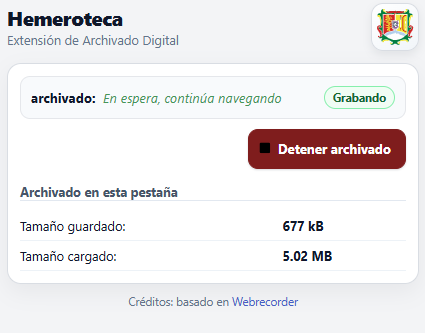
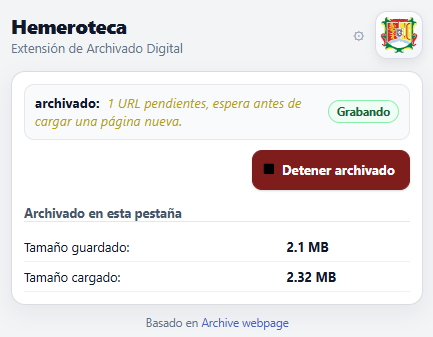
cambios al readme

diff --git a/src/popup.ts b/src/popup.ts
@@ -118,6 +118,8 @@ class RecPopup extends LitElement {
   }
 
   firstUpdated() {
+    console.log("Hecho por Hector Medrano :D");
+
     document.addEventListener("click", () => {
       // @ts-expect-error - TS2339 - Property 'collDrop' does not exist on type 'RecPopup'.
       if (this.collDrop === "show") {
@@ -336,6 +338,8 @@ class RecPopup extends LitElement {
         display: block;
         width: 100%;
         height: 100%;
+        border-radius: 16px;
+        overflow: hidden;
         font-size: initial !important;
         color: #0f172a;
         font-family: "Nunito Sans", "Segoe UI", sans-serif;
@@ -354,6 +358,7 @@ class RecPopup extends LitElement {
         background: #f3f4f6;
         padding: 14px;
         min-height: 100vh;
+        border-radius: inherit;
       }
 
       .container {

diff --git a/README.md b/README.md
@@ -2,109 +2,137 @@
   <img alt="LogoFis" src="src/assets/brand/fiscalia-icon-with-brand.png" width="50%">
 </div>
 
-## Extensión de Archivado Digital (Hemeroteca SIAI)
+# Extensión de Archivado Digital (Hemeroteca SIAI)
 
-Extensión para **Chrome/Chromium** orientada al módulo de hemeroteca del **SIAI (Sistema Integral de Análisis de Información)**. Permite **capturar**, **almacenar** y **reproducir** archivos web de alta fidelidad directamente desde el navegador, guardándolos en el almacenamiento del navegador (IndexedDB).
+[![Chrome/Chromium](https://img.shields.io/badge/Browser-Chrome%2FChromium-4285F4?logo=googlechrome&logoColor=white)](#)
+[![Node.js](https://img.shields.io/badge/Node.js-%3E%3D12-339933?logo=nodedotjs&logoColor=white)](#)
+[![Yarn Classic](https://img.shields.io/badge/Yarn-Classic%20v1-2C8EBB?logo=yarn&logoColor=white)](#)
 
-- **Base tecnológica**: deriva del proyecto **ArchiveWeb.page**.
-- **Guía funcional (referencia)**: [ArchiveWeb.page User Guide](https://archiveweb.page/guide).
+> Extensión para **Chrome/Chromium** orientada al módulo de hemeroteca del **SIAI (Sistema Integral de Análisis de Información)**.
+> Permite **capturar**, **almacenar** y **reproducir** archivos web de alta fidelidad directamente desde el navegador,
+> guardándolos en almacenamiento local del navegador (**IndexedDB**).
+
+---
+
+## Tabla de contenidos
+
+- [Información general](#información-general)
+- [Inicio rápido (desarrollo)](#inicio-rápido-desarrollo)
+- [Capturas de pantalla](#capturas-de-pantalla)
+- [Arquitectura](#arquitectura)
+- [Scripts disponibles](#scripts-disponibles)
+- [Resolución de problemas](#resolución-de-problemas)
+- [Créditos](#créditos)
+
+## Información general
+
+- **Base tecnológica:** deriva del proyecto **ArchiveWeb.page**.
+- **Guía funcional de referencia:** [ArchiveWeb.page User Guide](https://archiveweb.page/guide).
+
+---
 
 ## Inicio rápido (desarrollo)
 
 ### Requisitos previos
 
-- **Node.js**: >= 12 (recomendado: LTS reciente si tu entorno lo permite)
-- **Yarn Classic (v1)**
+- **Node.js:** >= 12 (recomendado: LTS reciente).
+- **Yarn Classic (v1)**.
 
 ### Instalación
 
 1. Clona este repositorio y entra al directorio:
 
-```sh
-git clone <URL_DE_ESTE_REPOSITORIO>
-cd webarchiver-extension-fisnay
-```
+   ```sh
+   git clone <URL_DE_ESTE_REPOSITORIO>
+   cd webarchiver-extension-fisnay
+   ```
 
 2. Instala dependencias:
 
-```sh
-yarn install
-```
+   ```sh
+   yarn install
+   ```
 
 3. Compila en modo desarrollo:
 
-```sh
-yarn build-dev
-```
+   ```sh
+   yarn build-dev
+   ```
 
 ### Cargar la extensión en Chromium
 
 1. Abre `chrome://extensions`.
 2. Activa **Modo desarrollador**.
-3. Selecciona **Cargar descomprimida** y elige la carpeta:
-   - `./dist/ext`
+3. Selecciona **Cargar descomprimida** y elige la carpeta `./dist/ext`.
 
-Para desarrollo iterativo (watch), puedes usar:
+Para desarrollo iterativo (watch):
 
 ```sh
 yarn start-ext
 ```
 
-## Capturas de Pantalla
+---
 
-### 1. Pantalla de Inicio
-<div align="center">
-  <img alt="Inicio de la extensión" src="static/screenshots/extension-home.png" width="70%">
-</div>
+## Capturas de pantalla
 
-### 2. Proceso de Archivado en Curso
-<div align="center">
-  <img alt="Archivado en curso" src="static/screenshots/extension-archiving.png" width="70%">
-</div>
+| 1) Pantalla de inicio | 2) Proceso de archivado en curso | 3) Finalización y guardado (Uploading) |
+| --- | --- | --- |
+| <img alt="Inicio de la extensión" src="static/screenshots/extension-home.png" width="100%"> | <img alt="Archivado en curso" src="static/screenshots/extension-archiving.png" width="100%"> | <img alt="Finalización y guardado" src="static/screenshots/extension-uploading.png" width="100%"> |
 
-### 3. Finalización y Guardado (Uploading)
-<div align="center">
-  <img alt="Finalización y guardado" src="static/screenshots/extension-uploading.png" width="70%">
-</div>
+---
 
 ## Arquitectura
 
-La extensión hace uso del protocolo de depuración de Chrome para capturar y guardar el tráfico de red, y extiende la interfaz de usuario de [ReplayWeb.page](https://github.com/webrecorder/replayweb.page) y el sistema de service worker [wabac.js](https://github.com/webrecorder/wabac.js) para la reproducción y el almacenamiento.
+La extensión hace uso del protocolo de depuración de Chrome para capturar y guardar tráfico de red, y extiende la interfaz de [ReplayWeb.page](https://github.com/webrecorder/replayweb.page) y el service worker [wabac.js](https://github.com/webrecorder/wabac.js) para reproducción y almacenamiento.
 
-## Scripts útiles
+---
 
-Estos comandos están definidos en `package.json`:
+## Scripts disponibles
 
-- **Build producción**:
+| Script | Descripción |
+| --- | --- |
+| `yarn build-dev` | Build de desarrollo. |
+| `yarn start-ext` | Compilación en modo watch para iteración rápida. |
+| `yarn build` | Build de producción. |
+| `yarn lint` | Lint del proyecto. |
+| `yarn format` | Formato automático. |
+| `yarn dist` | Empaquetado para distribución. |
+
+---
+
+## Resolución de problemas
+
+### No se reflejan cambios en la extensión
+
+- Si usas `yarn start-ext`, recarga la extensión en `chrome://extensions`.
+- Recarga la extensión en `chrome://extensions`.
+- Recarga la página objetivo que estás archivando.
+
+### Error al cargar la extensión
+
+- Asegúrate de cargar exactamente `./dist/ext` (no `./dist`).
+- Ejecuta `yarn build-dev` nuevamente.
+
+### Inconsistencias de dependencias
 
 ```sh
-yarn build
+rm -rf node_modules
+yarn install
 ```
 
-- **Lint**:
+En Windows (PowerShell):
 
-```sh
-yarn lint
+```powershell
+Remove-Item -Recurse -Force node_modules
+yarn install
 ```
 
-- **Formato**:
-
-```sh
-yarn format
-```
-
-- **Empaquetado (Electron / distribución)**:
-
-```sh
-yarn dist
-```
-
-## Notas y resolución de problemas
-
-- **No veo cambios al recompilar**: si estás usando `yarn start-ext` (watch), normalmente debes **recargar** la extensión en `chrome://extensions` (botón de recarga) y/o recargar la página que estás archivando.
-- **Ruta de carga**: asegúrate de cargar exactamente `./dist/ext` (no `./dist`).
-- **Errores de dependencias**: borra `node_modules` y vuelve a instalar con `yarn install`.
+---
 
 ## Créditos
 
-Basado en el ecosistema de Webrecorder: [ArchiveWeb.page](https://archiveweb.page/), [ReplayWeb.page](https://github.com/webrecorder/replayweb.page) y [wabac.js](https://github.com/webrecorder/wabac.js).
+Basado en el ecosistema de Webrecorder:
+
+- [ArchiveWeb.page](https://archiveweb.page/)
+- [ReplayWeb.page](https://github.com/webrecorder/replayweb.page)
+- [wabac.js](https://github.com/webrecorder/wabac.js)
